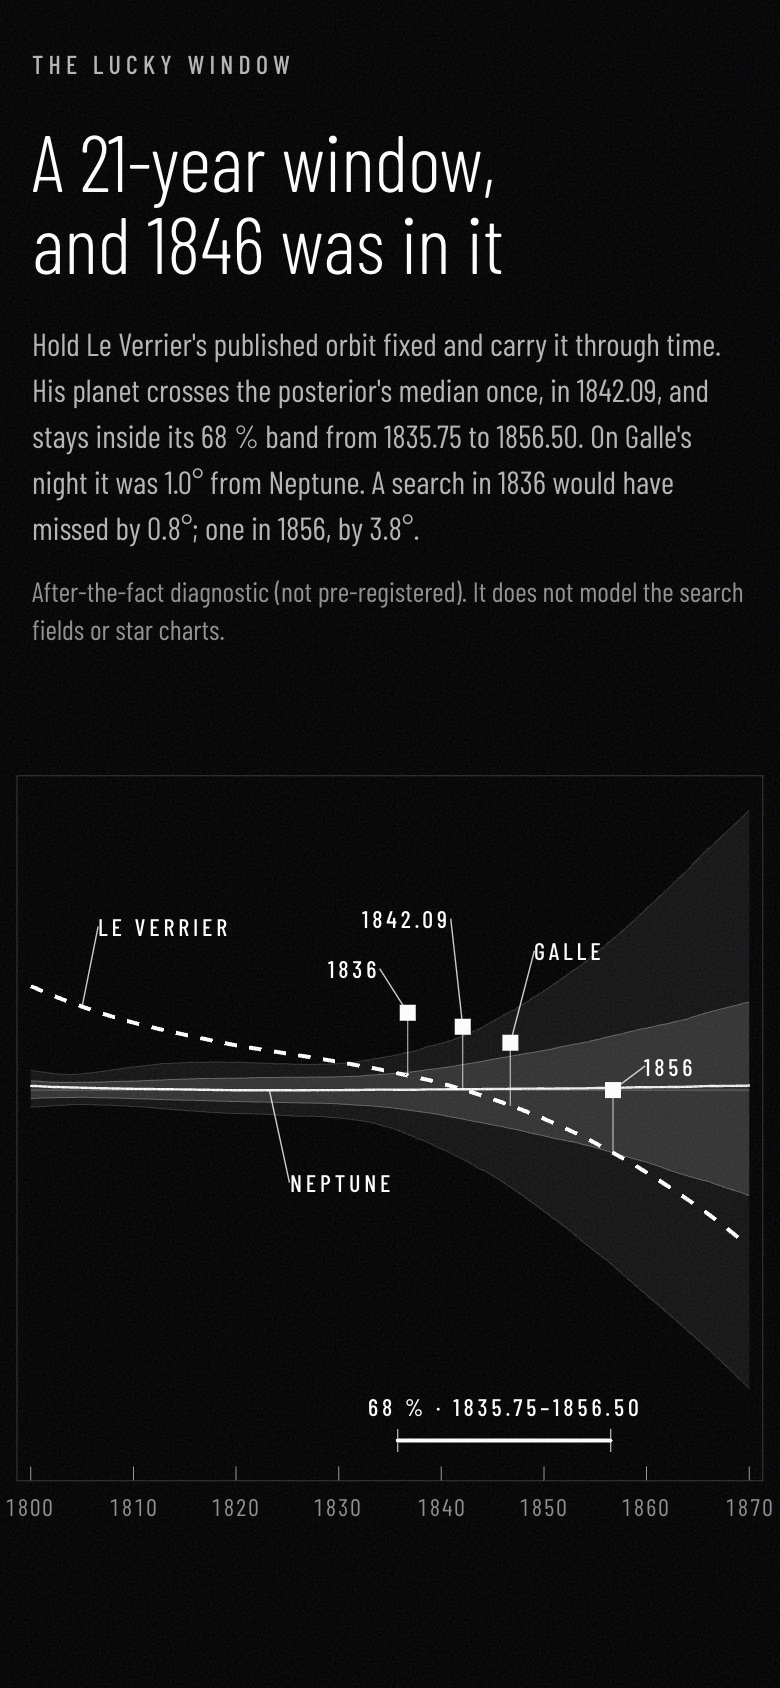
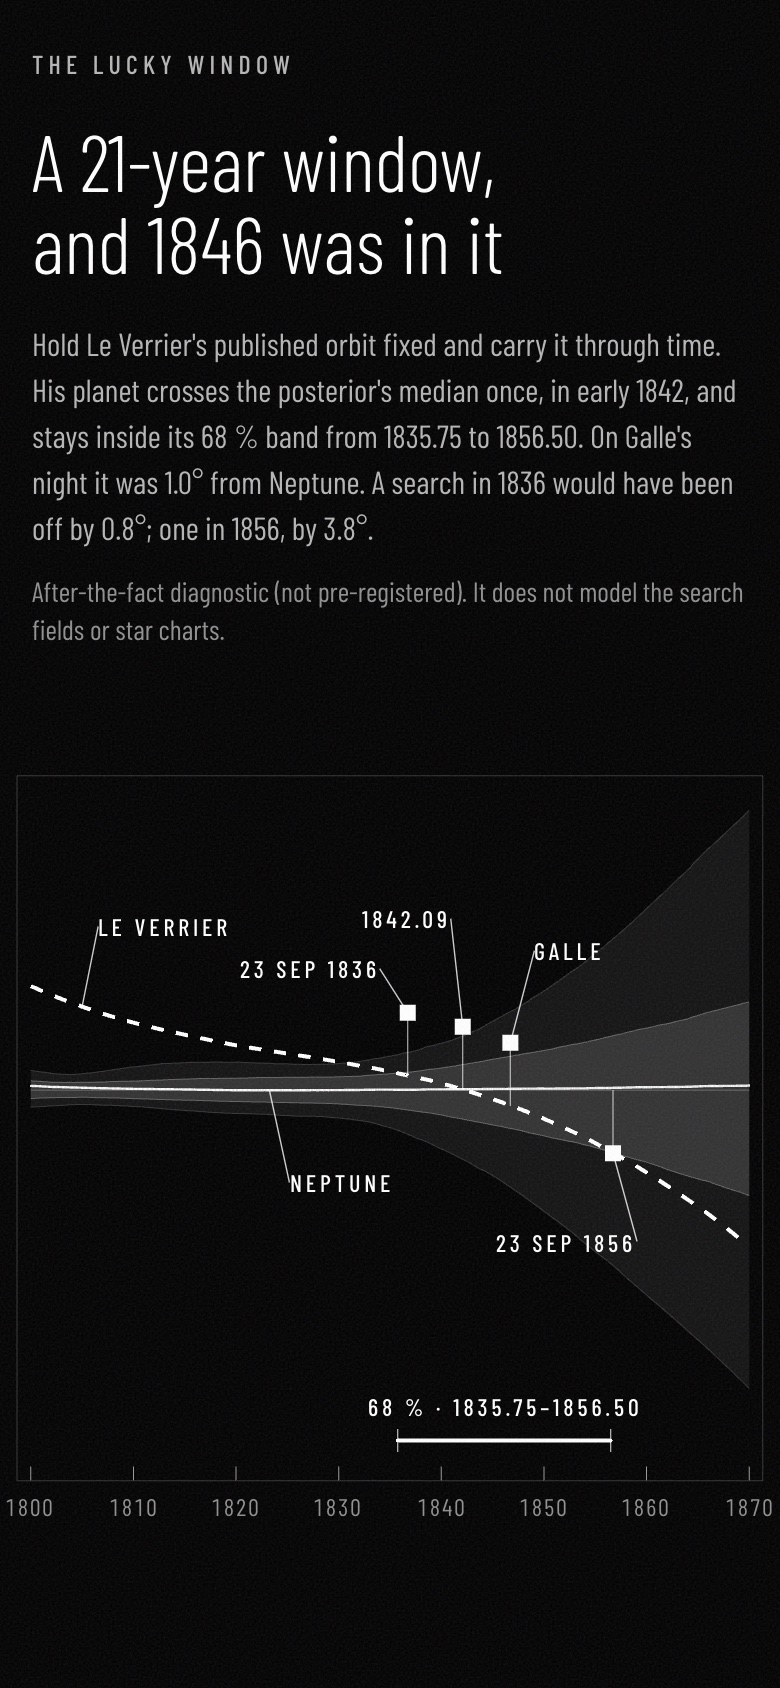
Pre-release clean-up: README no longer says no real observations have been fitted (states the pre-registered M6c result: 325.8 deg, 68 % 323.6-327.8, JPL 325.87, 95 % provisional) and its status names what is done (M6c) and open (rest of M6, M8 running, M7); CITATION.cff licence back to [MIT, CC0-1.

diff --git a/site/js/scene-window.js b/site/js/scene-window.js
@@ -201,7 +201,10 @@ export function mountWindow(root, d) {
       s1836: { point: top("s1836"), offset: phone ? [-14, -22] : [-34, -36] },
       zero: { point: top("zero"), offset: phone ? [-6, -54] : [-26, -104] },
       galle: { point: top("galle"), offset: phone ? [12, -46] : [34, -70] },
-      s1856: { point: top("s1856"), offset: phone ? [16, -12] : [34, -52] },
+      // On a phone the 1856 post is short and its top lands on Neptune's line, so the label
+      // attaches to the post's foot, on Le Verrier's dashed path, and sits below it.
+      s1856: phone ? { point: V(X(stages.s1856.yr), 0, stages.s1856.z), offset: [12, 44] }
+        : { point: top("s1856"), offset: [34, -52] },
       lvp: { point: lvPts[20], offset: phone ? [8, -40] : [16, -46], marker: "none" },
       nep: { point: V(X(s.year[nepAt]), 0, Zo(s.jpl_minus_median_deg[nepAt])), offset: phone ? [10, 46] : [24, 64], marker: "none" },
       b68: { point: V(X(y1), 0, Zo(s.hi68_rel_deg.at(-1))), offset: [14, 0], marker: "none", leader: false },
@@ -257,6 +260,12 @@ export function mountWindow(root, d) {
   requestAnimationFrame(frame);
 }
 
+/** "early 1842", "mid-1842" or "late 1842", from a decimal year. */
+const partOfYear = (y) => {
+  const f = y - Math.floor(y);
+  return `${f < 1 / 3 ? "early " : f < 2 / 3 ? "mid-" : "late "}${Math.floor(y)}`;
+};
+
 /** The panel's text, from the data. */
 export function fillWindow(root, d) {
   const set = (sel, text) => { root.querySelector(sel).textContent = text; };
@@ -271,22 +280,22 @@ export function fillWindow(root, d) {
     : `Le Verrier's planet and the posterior, ${Math.round(d.series.year[0])}–${Math.round(d.series.year.at(-1))}`);
   set(".body",
     `Hold Le Verrier's published orbit fixed and carry it through time. His planet crosses the ` +
-    `posterior's median once, in ${zero}, and stays inside its 68 % band from ${fmt(a, 2)} to ` +
+    `posterior's median once, in ${partOfYear(d.zero[0])}, and stays inside its 68 % band from ${fmt(a, 2)} to ` +
     `${fmt(b, 2)}. On Galle's night it was ${miss("galle_night")} from Neptune. A search in ` +
-    `${m.search_1836.date.year} would have missed by ${miss("search_1836")}; one in ` +
+    `${m.search_1836.date.year} would have been off by ${miss("search_1836")}; one in ` +
     `${m.search_1856.date.year}, by ${miss("search_1856")}.`);
   set(".note", `${d.note}. It does not model the search fields or star charts.`);
   const label = (k, title, short) => {
     set(`[data-anchor=${k}] .t`, title);
     set(`[data-anchor=${k}] .ts`, short);
   };
-  label("s1836", `Search in ${m.search_1836.date.year}`, String(m.search_1836.date.year));
+  label("s1836", `Search on ${m.search_1836.date.text}`, m.search_1836.date.text);
   set("[data-anchor=s1836] .s", `Le Verrier − Neptune ${signed(m.search_1836.le_verrier_minus_jpl_deg)}° · ${lvWhere("search_1836")}`);
   label("zero", `Crosses the median · ${zero}`, zero);
   set("[data-anchor=zero] .s", "His planet passes the posterior's centre");
   label("galle", `Galle's night · ${m.galle_night.date.text}`, "Galle");
   set("[data-anchor=galle] .s", `Le Verrier − Neptune ${signed(m.galle_night.le_verrier_minus_jpl_deg)}° · ${lvWhere("galle_night")}`);
-  label("s1856", `Search in ${m.search_1856.date.year}`, String(m.search_1856.date.year));
+  label("s1856", `Search on ${m.search_1856.date.text}`, m.search_1856.date.text);
   set("[data-anchor=s1856] .s", `Le Verrier − Neptune ${signed(m.search_1856.le_verrier_minus_jpl_deg)}° · ${lvWhere("search_1856")}`);
   label("lvp", "Le Verrier's planet", "Le Verrier");
   set("[data-anchor=lvp] .s", "His published orbit, held fixed (our calculation)");

diff --git a/docs/notes/M7.md b/docs/notes/M7.md
@@ -235,8 +235,10 @@ and it says the search fields are not modelled.
 slightly. Reduced motion skips the draw-in.
 
 **Phone:** 1800–1870 is fitted to the width, and the offset axis is stretched 2.4× so the
-channel keeps its height (the hover undoes the stretch). Labels shorten to "1836", "1842.09",
-"Galle", "1856", "Le Verrier", "Neptune" and "68 % · 1835.75–1856.50"; the band-end and
+channel keeps its height (the hover undoes the stretch). Labels shorten to "23 Sep 1836",
+"1842.09", "Galle", "23 Sep 1856", "Le Verrier", "Neptune" and "68 % · 1835.75–1856.50". The 1856
+post is short at phone scale and its top lands on Neptune's line, so on a phone that label
+attaches to the post's foot, on Le Verrier's dashed path, and sits below it. The band-end and
 ahead/behind labels and the equation are hidden. The dashes are longer, so they stay dashes at
 the smaller scale.
 
@@ -257,3 +259,10 @@ horizontal overflow on the phone. Screenshots: `docs/notes/M7_window.jpg` and
   numbers, tags or pills, bordered containers (the slab outline is the floor's edge, not a box
   around text), monospace, dividers. Labels: four posts, the two paths, the window, and two
   quiet band ends and two quiet axis words on desktop; seven short labels on a phone.
+
+**Panel 3 revision (2026-11-09):**
+- The body says "in early 1842". The decimal year (1842.09) stays in the label and the text
+  alternative. "Early", "mid-" or "late" comes from the year's fraction.
+- "would have been off by", not "would have missed by".
+- The search posts are labelled with their dates from the JSON ("Search on 23 Sep 1836").
+- On a phone, the 1856 label is placed as described under Phone above.

diff --git a/README.md b/README.md
@@ -24,11 +24,17 @@ There are two separate noise-free checks:
 - **Posterior (M5b):** wider, with its median at 322.05° against the true 325.87°, a −0.75σ
   offset. The shift runs along the mass–distance degeneracy, where the likelihood is flat.
 
-Every number here comes from synthetic data. No real observations have been fitted yet.
+The figure and the two checks above use synthetic data. The pre-registered fit to Le Verrier's
+real observations (M6c) puts the planet at 325.8° on Galle's night, with a 68 % interval of
+323.6°–327.8°, against JPL's 325.87°; its 95 % interval is provisional. Details are under
+Status below.
 
 ## Status
 
-Phase 1, **M6 in progress**. Milestones M0–M5b are complete:
+Phase 1. The pre-registered real-data fit (M6c) is done and reported below; the rest of M6
+(the M6d–M6e items and the A6 report) is open, M8 (a faster likelihood that decides the
+provisional 95 % interval) is running, and M7 (the public site) is being built. Milestones
+M0–M5b are complete:
 
 - frames;
 - the Kepler solver;

diff --git a/docs/release_checklist.md b/docs/release_checklist.md
@@ -10,9 +10,8 @@ semver: the tag is `vX.Y.Z`, and `pyproject.toml` and `CITATION.cff` hold `X.Y.Z
 - No tag yet. Tag `v1.0.0` after M6 is complete.
 - `0.9.0` until then, with semver everywhere and no "-phase1" suffix.
 - Licenses: MIT for the code, and CC0 1.0 for `data/historical/`. The split is stated in
-  `LICENSE`, `README.md`, `CITATION.cff` and `.zenodo.json`. Since 2026-11-09 both
-  `CITATION.cff` and `.zenodo.json` have `license: MIT`, and the CC0 dedication is in their
-  text (the abstract; `notes`).
+  `LICENSE`, `README.md`, `CITATION.cff` (`license: [MIT, CC0-1.0]`, CC0 also in the abstract)
+  and `.zenodo.json` (`license: MIT`, one licence only; CC0 stated in `notes`).
   Zenodo's `license` field takes one value, so it says MIT, and the CC0 dedication is in
   `notes` (since 2026-11-09 the description covers only the method and the result).
 - ORCID: 0009-0004-1264-1662 (https://orcid.org/0009-0004-1264-1662), filled in 2026-11-07: the URL in `CITATION.cff`, the bare iD
